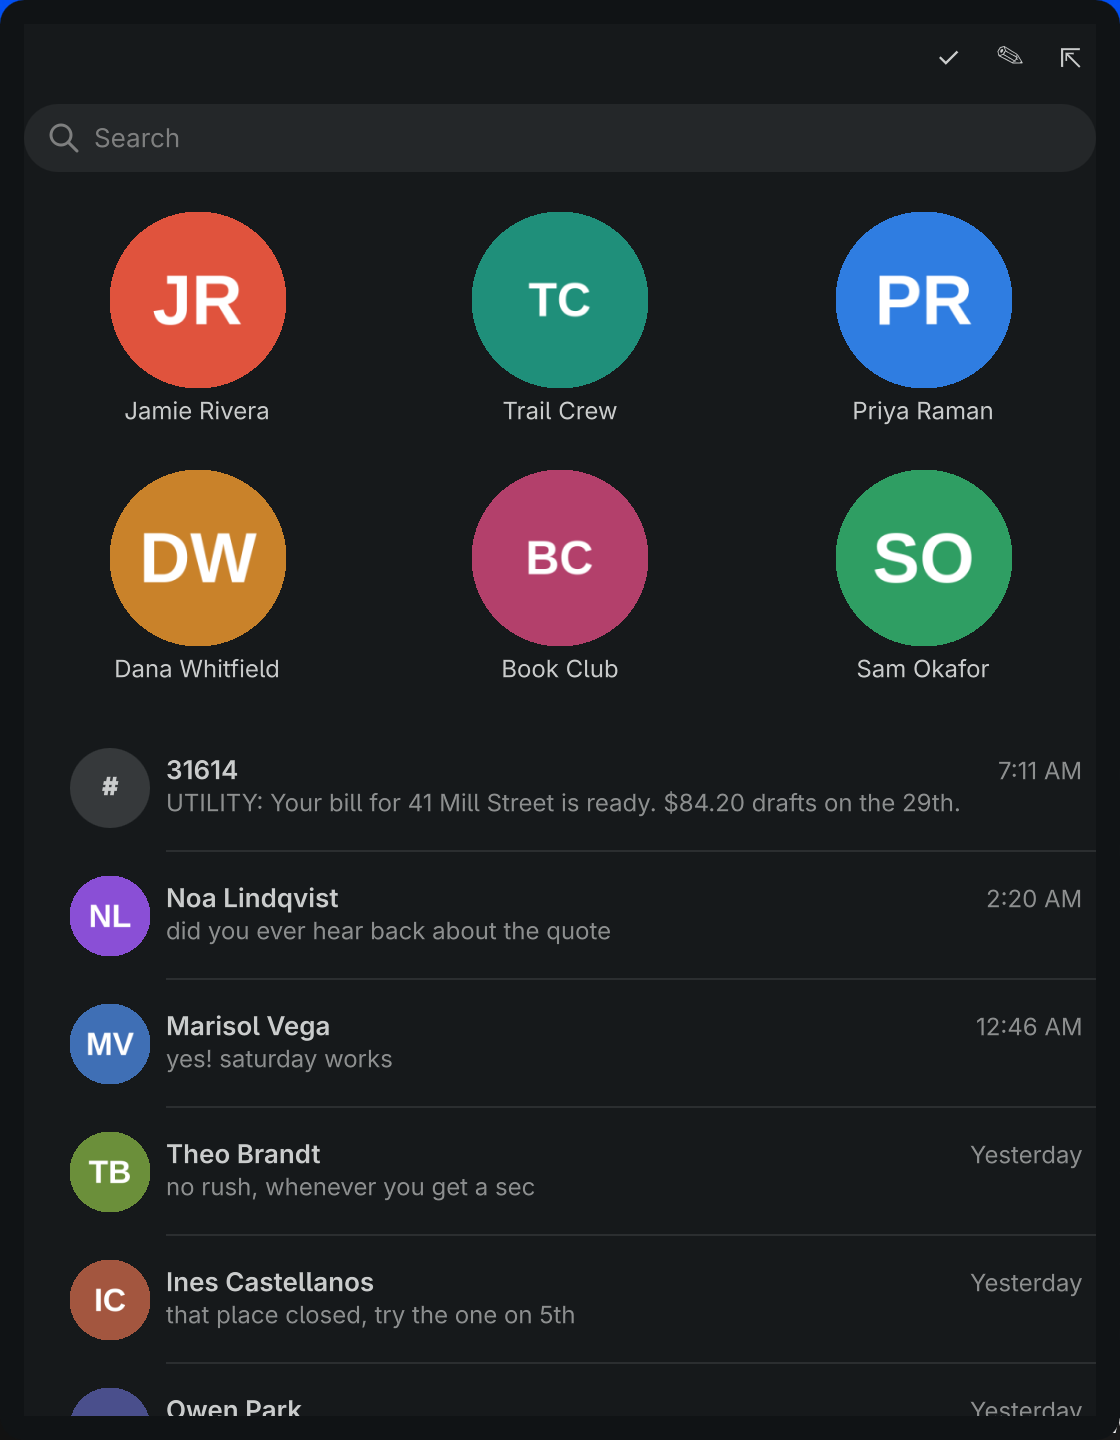
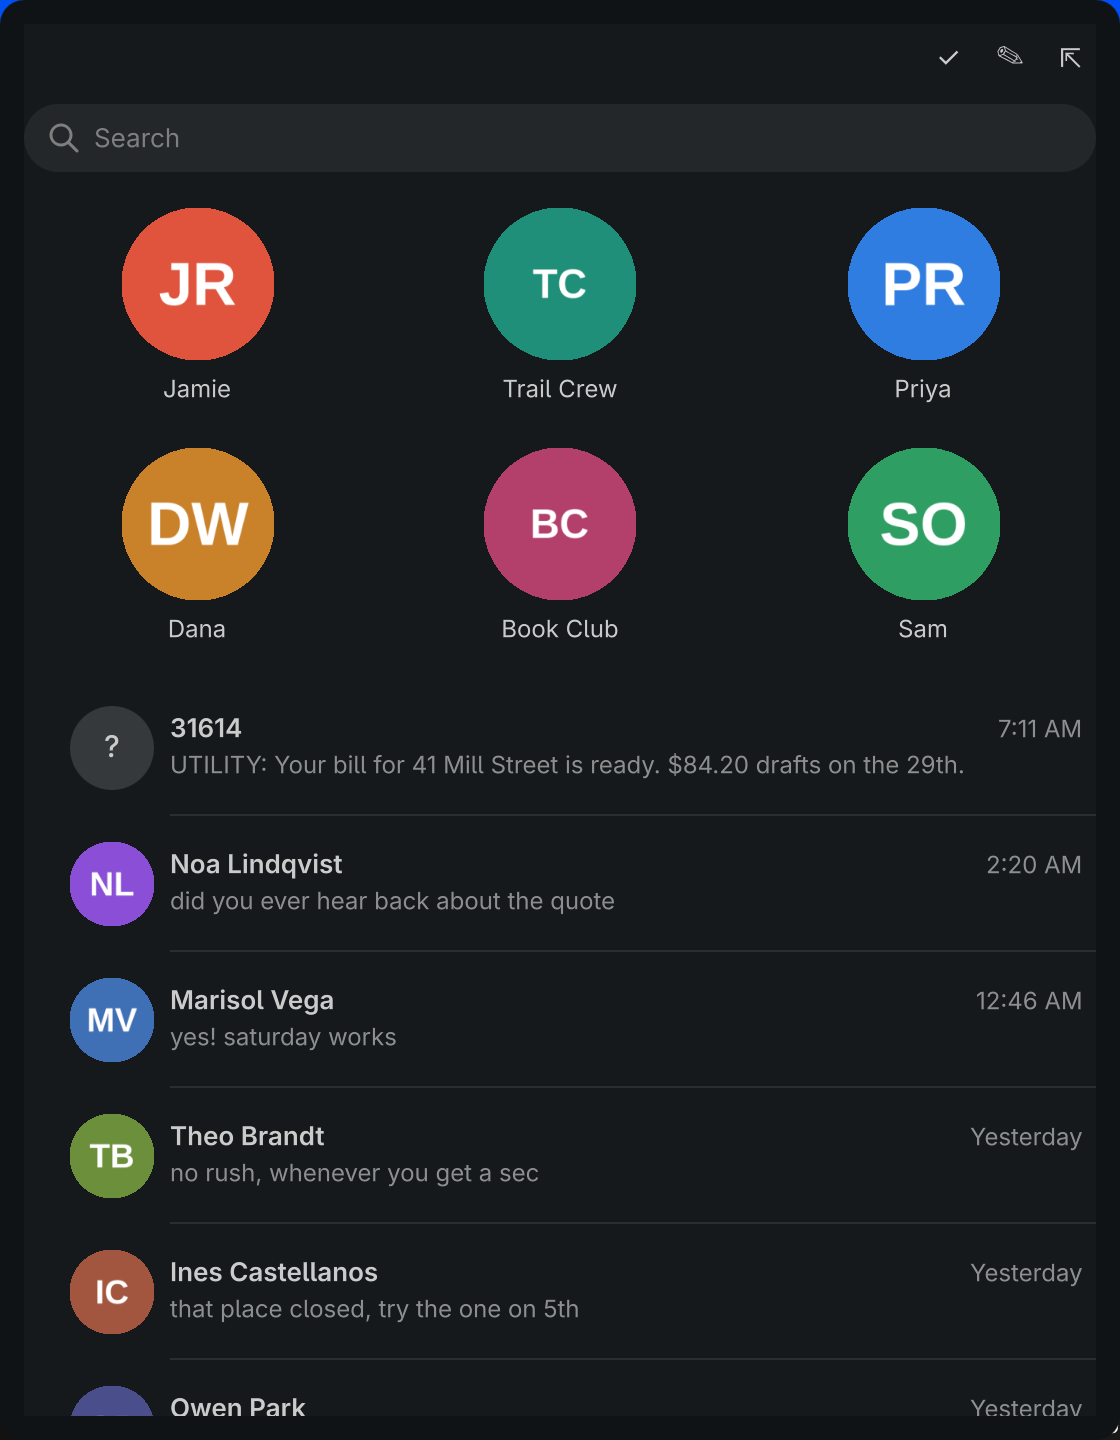
Polish favorites grid and preserve composer emoji selection

diff --git a/BlipView.qml b/BlipView.qml
@@ -534,11 +534,7 @@ FocusScope {
   property string reloadChat: ""
 
   function avatarInitials(thread) {
-    var n = String(thread.name || "")
-    if (/^[+0-9]/.test(n) || n === "") return "#"
-    var parts = n.trim().split(/\s+/).filter(function(p) { return p.length > 0 })
-    if (parts.length === 0) return "#"
-    return (parts[0][0] + (parts.length > 1 ? parts[parts.length - 1][0] : "")).toUpperCase()
+    return ConversationAppearance.conversationInitials(thread)
   }
 
   readonly property bool contactsOpen: contactReview.opened
@@ -2849,9 +2845,9 @@ FocusScope {
                        && root.pinnedThreads.length > 0
               columns: 3
               columnSpacing: Style.space(8)
-              rowSpacing: Style.space(10)
-              Layout.topMargin: Style.space(8)
-              Layout.bottomMargin: Style.space(8)
+              rowSpacing: Style.space(6)
+              Layout.topMargin: Style.space(4)
+              Layout.bottomMargin: Style.space(4)
 
               Repeater {
                 id: pinnedRepeater
@@ -2865,8 +2861,9 @@ FocusScope {
                   readonly property bool selected: root.splitView && root.isShowing(modelData)
                   onHasCursorChanged: if (hasCursor) root.cursorRow = pinnedTile
                   Layout.fillWidth: true
-                  Layout.preferredWidth: Math.max(1, (pinnedGrid.width - pinnedGrid.columnSpacing * 2) / 3)
-                  implicitHeight: pinnedColumn.implicitHeight + Style.space(12)
+                  Layout.preferredWidth: 1
+                  Layout.minimumWidth: 0
+                  implicitHeight: pinnedColumn.implicitHeight + Style.space(16)
                   radius: Style.space(10)
                   color: selected ? root.selectedFill
                     : pinnedHover.hovered || (hasCursor && root.cursorShown)
@@ -2887,7 +2884,7 @@ FocusScope {
                     anchors.leftMargin: Style.space(4)
                     anchors.rightMargin: Style.space(4)
                     anchors.verticalCenter: parent.verticalCenter
-                    spacing: Style.space(4)
+                    spacing: Style.space(7)
 
                     Rectangle {
                       id: pinnedAvatar
@@ -2895,7 +2892,7 @@ FocusScope {
                       // Hidden layouts defer their first measurement. Derive
                       // the size from the pane's known width and supply both
                       // implicit size and layout hints before the first open.
-                      readonly property real avatarSize: Math.min(88, Math.max(56,
+                      readonly property real avatarSize: Math.min(76, Math.max(56,
                         ((root.splitView ? root.sidebarWidth - Style.space(24) : root.width)
                           - pinnedGrid.columnSpacing * 2) / 3 * 0.80))
                       implicitWidth: avatarSize
@@ -2956,8 +2953,8 @@ FocusScope {
                         textFormat: Text.PlainText
                         color: root.foreground
                         font.family: root.fontFamily
-                        font.pixelSize: root.fontBody
-                        font.bold: true
+                        font.pixelSize: Math.round(pinnedAvatar.avatarSize * 0.32)
+                        font.weight: Font.Medium
                       }
 
                       // The unread dot. Pinned threads live ONLY here — the list
@@ -2990,14 +2987,17 @@ FocusScope {
                     // the label; the digit was a hint, not the mechanism.
                     Text {
                       Layout.fillWidth: true
-                      text: String(modelData.name || modelData.chat)
+                      Layout.minimumWidth: 0
+                      text: ConversationAppearance.pinnedName(modelData, root.pinnedThreads,
+                        root.isGroupId(String(modelData.chat || "")))
                       textFormat: Text.PlainText
                       horizontalAlignment: Text.AlignHCenter
                       elide: Text.ElideRight
                       color: root.foreground
                       font.family: root.fontFamily
                       font.pixelSize: root.fontCaption
-                      font.bold: modelData.unread > 0
+                      font.weight: modelData.unread > 0 ? Font.DemiBold : Font.Normal
+                      Accessible.name: ConversationAppearance.conversationName(modelData)
                     }
                   }
                 }
@@ -3115,7 +3115,7 @@ FocusScope {
                   onHasCursorChanged: if (hasCursor) root.cursorRow = threadRow
 
                   Layout.fillWidth: true
-                  implicitHeight: Math.max(Style.space(64), rowRow.implicitHeight + Style.space(18))
+                  implicitHeight: Math.max(Style.space(68), rowRow.implicitHeight + Style.space(16))
                   radius: Style.space(10)
                   color: selected ? root.selectedFill : highlighted
                     ? root.hoverFill
@@ -3154,7 +3154,7 @@ FocusScope {
                       id: avatarCircle
                       // Messages' sidebar avatar is large relative to the row;
                       // Keep ordinary avatars legible beside two preview lines.
-                      width: Style.space(40); height: width; radius: width / 2
+                      width: Style.space(42); height: width; radius: width / 2
                       color: Qt.rgba(root.foreground.r, root.foreground.g, root.foreground.b, 0.18)
                       // A group binds to ITS OWN chat id (its Messages group photo); a DM to
                       // the person. Binding a group to `handle` showed whoever spoke last —
@@ -3211,14 +3211,15 @@ FocusScope {
                         textFormat: Text.PlainText
                         color: root.foreground
                         font.family: root.fontFamily
-                        font.pixelSize: root.fontCaption
-                        font.bold: true
+                        font.pixelSize: root.fontBodySmall + 2
+                        font.weight: Font.Medium
                       }
                     }
 
                     ColumnLayout {
                       Layout.fillWidth: true
-                      spacing: Style.space(1)
+                      Layout.minimumWidth: 0
+                      spacing: Style.space(3)
                       RowLayout {
                         Layout.fillWidth: true
                         spacing: Style.space(6)
@@ -4464,7 +4465,18 @@ FocusScope {
   }
 
   function openEmojiPicker() {
+    if (emojiPopup.visible) { emojiPopup.close(); return }
     emojiPopup.open()
+  }
+  function insertComposerEmoji(emoji) {
+    var start = composeField.selectionStart
+    var end = composeField.selectionEnd
+    var at = start !== end ? start : composeField.cursorPosition
+    if (start !== end) composeField.remove(start, end)
+    composeField.insert(at, emoji)
+    composeField.cursorPosition = at + emoji.length
+    emojiPopup.close()
+    composeField.forceActiveFocus()
   }
   Popup {
     id: emojiPopup
@@ -4475,6 +4487,7 @@ FocusScope {
     y: Math.max(Style.space(8), root.height - height - composeSlot.height - Style.space(28))
     padding: Style.space(8)
     focus: true
+    onClosed: if (root.inThread) composeField.forceActiveFocus()
     closePolicy: Popup.CloseOnEscape | Popup.CloseOnPressOutside
     background: Rectangle {
       color: appearance.background
@@ -4494,9 +4507,7 @@ FocusScope {
       palette.window: appearance.background
       palette.highlight: root.accent
       onEmojiChosen: function(emoji) {
-        composeField.insert(composeField.cursorPosition, emoji)
-        emojiPopup.close()
-        composeField.forceActiveFocus()
+        root.insertComposerEmoji(emoji)
       }
     }
   }

diff --git a/conversation-appearance.test.ts b/conversation-appearance.test.ts
@@ -1,5 +1,5 @@
 import { expect, test } from "bun:test";
-import { conversationInitials, conversationName } from "./conversation-appearance";
+import { conversationInitials, conversationName, pinnedName } from "./conversation-appearance";
 test("header uses resolved names and never substitutes phone or email identifiers", () => {
   expect(conversationName({ name: "Jamie Rivera", chat: "+15551234567" })).toBe("Jamie Rivera");
   for (const name of ["", "+15551234567", "+1 (555) 123-4567", "person@example.com"]) {
@@ -11,4 +11,13 @@ test("header uses resolved names and never substitutes phone or email identifier
   expect(conversationInitials({name:"Jamie Rivera"})).toBe("JR");
   expect(conversationInitials(null)).toBe("?");
   expect(conversationInitials({name:"🚀 Rocket"})).toBe("🚀R");
+});
+
+test("favorite captions fit the grid without losing group or ambiguous names", () => {
+  const jamie = {name:"Jamie Rivera"};
+  expect(pinnedName(jamie, [jamie, {name:"Alex Chen"}])).toBe("Jamie");
+  expect(pinnedName(jamie, [jamie, {name:"Jamie Smith"}])).toBe("Jamie R.");
+  expect(pinnedName({name:"Trail Crew"}, [], true)).toBe("Trail Crew");
+  expect(pinnedName({name:"Priya"})).toBe("Priya");
+  expect(pinnedName({name:"+15551234567"})).toBe("Conversation");
 });

diff --git a/conversation-appearance.ts b/conversation-appearance.ts
@@ -10,3 +10,15 @@ export function conversationInitials(thread: { name?: unknown; chat?: unknown; h
   if (name === "Conversation" || !thread) return "?";
   return name.split(/\s+/).slice(0, 2).map(word => word.slice(0, (word.codePointAt(0) || 0) > 0xffff ? 2 : 1)).join("").toUpperCase();
 }
+
+/** Compact favorite captions retain full names elsewhere, disambiguating first names. */
+export function pinnedName(thread: { name?: unknown; chat?: unknown; handle?: unknown }, peers: Array<{ name?: unknown }> = [], group = false): string {
+  const name = conversationName(thread);
+  if (group || name === "Conversation") return name;
+  const words = name.split(/\s+/);
+  if (words.length === 1) return name;
+  const first = words[0];
+  const duplicate = peers.filter(peer => typeof peer.name === "string" && peer.name.trim().split(/\s+/)[0].toLocaleLowerCase() === first.toLocaleLowerCase()).length > 1;
+  const last = words[words.length - 1];
+  return duplicate ? first + " " + last.slice(0, (last.codePointAt(0) || 0) > 0xffff ? 2 : 1).toUpperCase() + "." : first;
+}

diff --git a/ui.test.ts b/ui.test.ts
@@ -986,7 +986,7 @@ test("pinned avatars size through Layout hints, not width bindings", () => {
   const start = panel.indexOf("id: pinnedAvatar");
   expect(start).toBeGreaterThan(-1);
   const avatar = panel.slice(start, panel.indexOf("radius: width / 2", start));
-  expect(avatar).toContain("readonly property real avatarSize: Math.min(88, Math.max(56,");
+  expect(avatar).toContain("readonly property real avatarSize: Math.min(76, Math.max(56,");
   expect(avatar).toContain("implicitWidth: avatarSize");
   expect(avatar).toContain("implicitHeight: avatarSize");
   expect(avatar).toContain("Layout.preferredWidth: avatarSize");

diff --git a/scripts/test-composer-emoji-ui.py b/scripts/test-composer-emoji-ui.py
@@ -1,0 +1,161 @@
+#!/usr/bin/env python3
+"""Run the actual composer and emoji-popup wiring against a fake send counter.
+
+Only theme tokens, the external spelling worker, and host actions are stubbed; the TextArea, shipping picker,
+insert/close handlers and full composer key handler are the real source.
+"""
+from pathlib import Path
+import os
+import shutil
+import subprocess
+import tempfile
+
+repo = Path(__file__).resolve().parents[1]
+source = (repo / 'BlipView.qml').read_text()
+
+def block(marker):
+    begin = source.index('{', source.index(marker))
+    depth = 0
+    for end in range(begin, len(source)):
+        if source[end] == '{': depth += 1
+        elif source[end] == '}':
+            depth -= 1
+            if depth == 0: return source[begin + 1:end]
+    raise ValueError(marker)
+
+composer = block('              ComposerInput {')
+# Theme math does not change the editor's behavior; no Omarchy shell is loaded.
+composer = composer.replace('Style.', 'style.').replace('Border.', 'borderStyle.')
+popup = block('  Popup {\n    id: emojiPopup')
+popup = popup.replace('Style.', 'style.').replace('appearance.background', '"#202126"')
+qml = '''import QtQuick
+import QtQuick.Controls
+import QtTest
+import "."
+Item {
+  id: root
+  width: 740; height: 540
+  property color foreground: "white"
+  property color dim: "#aaaaaa"
+  property color urgent: "#ff4444"
+  property color mineFill: "#0a84ff"
+  property color accent: "#0a84ff"
+  property string fontFamily: "sans-serif"
+  property int fontBodySmall: 13
+  property int fontCaption: 11
+  property bool online: true
+  property bool inThread: true
+  property bool splitView: true
+  property var active: ({chat:"synthetic"})
+  property var drafts: ({})
+  property int attachCount: 0
+  property string shareUrl: ""
+  property int bubbleCursor: -1
+  property int sends: 0
+  function send() { sends++ }
+  function isSendable(t) { return true }
+  function commitPeek() {}
+  function shareKey(key) { return false }
+  function selectedBubble() { return null }
+  function back() {}
+  function openEmojiPicker() { @OPEN@ }
+  function insertComposerEmoji(emoji) { @INSERT@ }
+  QtObject {
+    id: style
+    function space(n) { return n }
+    function selectionFillFor(a,b) { return b }
+  }
+  QtObject { id: borderStyle; function controlSpec(a,b,c) { return {} } }
+  Item {
+    id: composeSlot
+    anchors.left: parent.left; anchors.right: parent.right; anchors.bottom: parent.bottom
+    height: 46
+    Flickable {
+      id: composeFlick
+      anchors.fill: parent
+      function showCaret() {}
+      ComposerInput { @COMPOSER@ }
+    }
+  }
+  Popup { @POPUP@ }
+  TestCase {
+    name: "ComposerEmoji"
+    when: windowShown
+    function init() {
+      emojiPopup.close()
+      composeField.text = "A draft stays here"
+      composeField.cursorPosition = composeField.length
+      composeField.forceActiveFocus()
+      root.sends = 0
+    }
+    function chooseRocketByKeyboard() {
+      root.openEmojiPicker()
+      tryCompare(emojiPopup, "visible", true)
+      var search = findChild(emojiPicker, "reactionEmojiSearch")
+      var grid = findChild(emojiPicker, "reactionEmojiGrid")
+      search.text = "rocket"
+      tryCompare(grid, "count", 1)
+      search.forceActiveFocus()
+      keyClick(Qt.Key_Return)
+      tryCompare(emojiPopup, "visible", false)
+    }
+    function test_selected_text_is_replaced_and_enter_never_sends() {
+      composeField.select(2,7)
+      chooseRocketByKeyboard()
+      compare(composeField.text, "A 🚀 stays here")
+      compare(composeField.cursorPosition, 4)
+      compare(root.sends, 0)
+      verify(composeField.activeFocus)
+    }
+    function test_inserts_at_cursor_and_keeps_both_sides() {
+      composeField.cursorPosition = 2
+      chooseRocketByKeyboard()
+      compare(composeField.text, "A 🚀draft stays here")
+      compare(root.sends, 0)
+      keyClick(Qt.Key_Return)
+      compare(root.sends, 1)
+    }
+    function test_escape_retains_draft_and_restores_editor_focus() {
+      root.openEmojiPicker()
+      tryCompare(emojiPopup, "visible", true)
+      var search = findChild(emojiPicker, "reactionEmojiSearch")
+      search.forceActiveFocus()
+      keyClick(Qt.Key_Escape)
+      tryCompare(emojiPopup, "visible", false)
+      compare(composeField.text, "A draft stays here")
+      verify(composeField.activeFocus)
+      compare(root.sends, 0)
+    }
+    function test_button_toggles_closed_without_losing_focus() {
+      root.openEmojiPicker()
+      tryCompare(emojiPopup, "visible", true)
+      root.openEmojiPicker()
+      tryCompare(emojiPopup, "visible", false)
+      verify(composeField.activeFocus)
+      compare(composeField.text, "A draft stays here")
+      compare(root.sends, 0)
+    }
+  }
+}
+'''
+qml = qml.replace('@OPEN@', block('function openEmojiPicker(')).replace('@INSERT@', block('function insertComposerEmoji('))
+qml = qml.replace('@COMPOSER@', composer).replace('@POPUP@', popup)
+runner = os.environ.get('QMLTESTRUNNER') or shutil.which('qmltestrunner') or '/usr/lib/qt6/bin/qmltestrunner'
+with tempfile.TemporaryDirectory(prefix='blip-composer-emoji-') as folder:
+    for name in ['ComposerInput.qml', 'ReactionPicker.qml', 'TapbackActions.mjs']:
+        shutil.copy2(repo / name, Path(folder) / name)
+    editor = (repo / 'ComposerInput.qml').read_text().replace('import Quickshell.Io\n', '')
+    start = editor.index('  Process {')
+    end = editor.index('  Canvas {', start)
+    editor = editor[:start] + """  QtObject {
+    id: checker
+    property bool running: false
+    property var command: []
+    property bool stdinEnabled: false
+    function write(text) {}
+  }
+""" + editor[end:]
+    Path(folder, 'ComposerInput.qml').write_text(editor)
+    Path(folder, 'tst_composer.qml').write_text(qml)
+    result = subprocess.run([runner, '-input', folder, '-platform', 'offscreen'], env={**os.environ, 'QT_QPA_PLATFORM':'offscreen', 'QT_QPA_PLATFORMTHEME':'generic'})
+    raise SystemExit(result.returncode)
